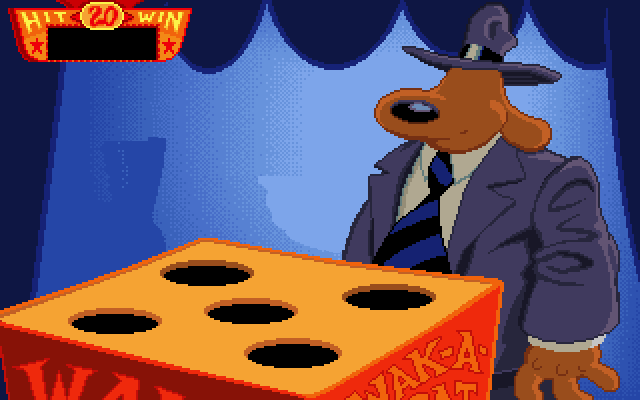
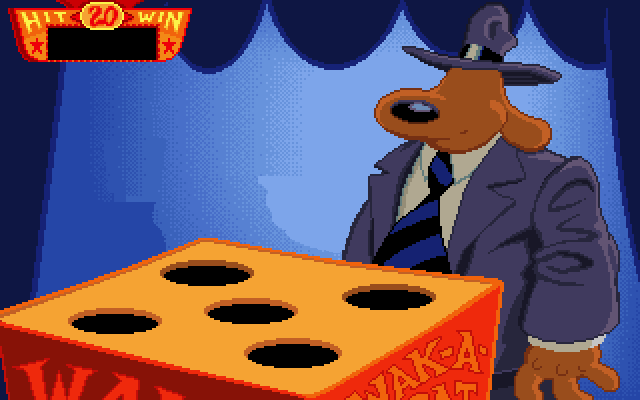
max animation working.

Changed region(s): [[0.1875, 0.33, 0.2812, 0.51]]

diff --git a/src/sketches/wak-a-rat/characters/Max.js b/src/sketches/wak-a-rat/characters/Max.js
@@ -1,6 +1,10 @@
 let Assets = require('../Assets');
+let Animation = require('../Animation');
 
-let instance;
+let instance,
+  hitSequence = {
+    'hit': ['hit_0', 'hit_1', 'hit_2']
+  };
 
 let Max = function(cfg) {
 
@@ -12,13 +16,26 @@ let Max = function(cfg) {
   instance = this;
 
   assets = new Assets(this.p5);
+  this.hitAni = new Animation({
+    p5: this.p5,
+    animations: hitSequence,
+    atlasName: 'max',
+    startFrame: 'idle',
+    endFrame: 'idle'
+  });
 
   this.render = function() {
-    this.p5.image(assets.get('data/images/max/head.png'), 0, 74);
-    this.p5.image(assets.get('data/images/max/hand.png'), 0, 280);
+    let frame = this.hitAni.getFrame();
+    frame && this.p5.image(frame, 0, 70);
   };
 
-  this.update = function(dt) {};
+  this.hit = function() {
+    this.hitAni.play('hit');
+  };
+
+  this.update = function(dt) {
+    this.hitAni.update(dt);
+  };
 };
 
 module.exports = Max;

diff --git a/src/sketches/wak-a-rat/Assets.js b/src/sketches/wak-a-rat/Assets.js
@@ -8,9 +8,7 @@ const Atlas = require('./Atlas');
 const Data = {
   images: [
     'data/images/background/background.png',
-    'data/images/max/head.png',
-    'data/images/max/hand.png',
-
+    
     'data/images/sam/arms/images/arm_idle.png'
     // font
   ],
@@ -24,6 +22,11 @@ const Data = {
       name: 'sam',
       atlas: 'data/images/sam/atlas.png',
       meta: 'data/images/sam/atlas.json'
+    },
+    {
+      name: 'max',
+      atlas: 'data/images/max/atlas.png',
+      meta: 'data/images/max/atlas.json'
     }
   ]
 };

diff --git a/src/sketches/wak-a-rat/index.js b/src/sketches/wak-a-rat/index.js
@@ -39,8 +39,8 @@ function update(dt) {
 }
 
 function render() {
-  max.render();
   GameBoard.render();
+  max.render();
   sam.render();
 }
 
@@ -102,6 +102,7 @@ var newp5 = new p5(function(p) {
   */
   p.mousePressed = function() {
     GameBoard.hit({ x: p.mouseX, y: p.mouseY });
+    max.hit();
   };
 
   /*
